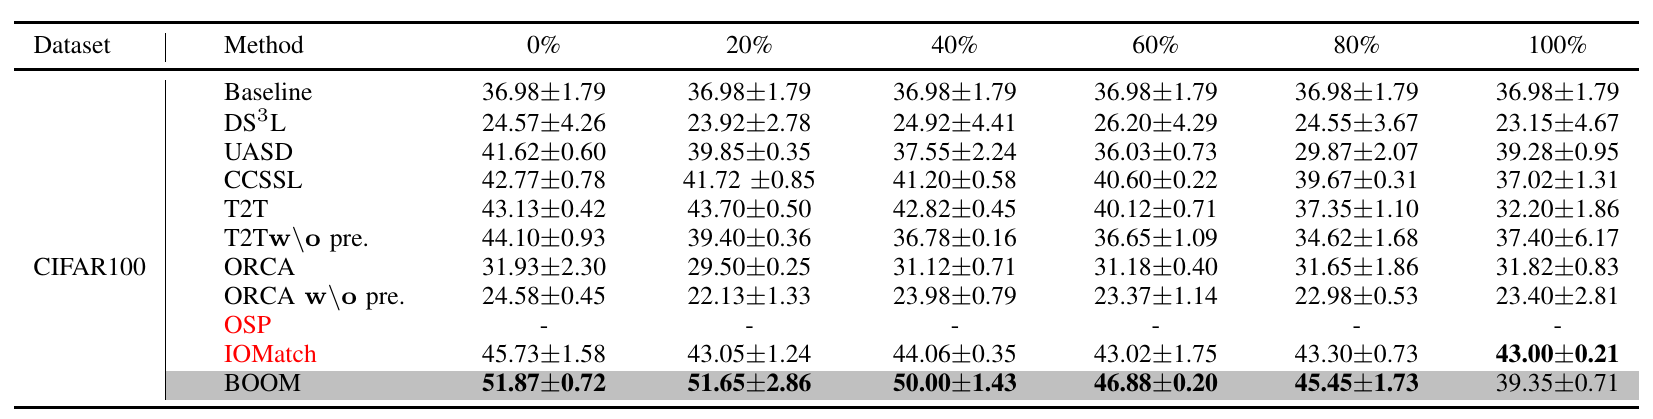
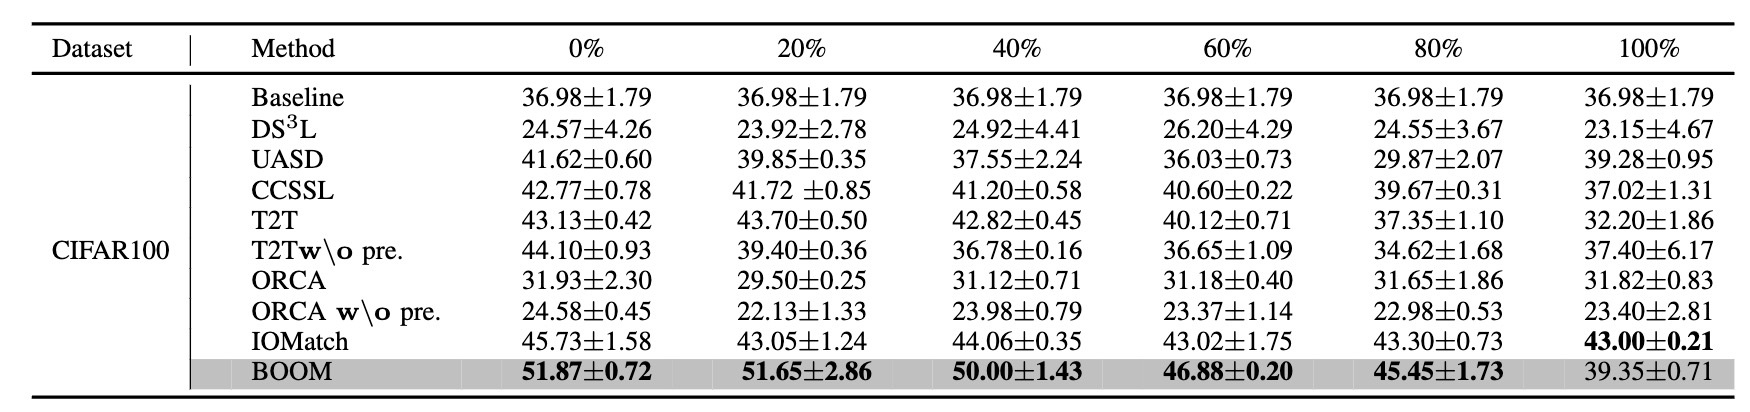
Add files via upload

Changed region(s): [[0.0, 0.0291, 1.0, 0.9903]]

diff --git a/index.html b/index.html
@@ -124,8 +124,10 @@
         <section id="abstract">
             <h2>1. Abstract</h2>
             <!-- <span style="color: red;">red</span>  -->
-            <p>Semi-supervised learning (SSL) confronts a formidable challenge under class distribution mismatch, wherein unlabeled data contain numerous categories absent in the labeled dataset. Traditional SSL methods undergo performance deterioration in such mismatch scenarios due to the invasion of those instances from unknown categories. Despite some technical efforts to enhance SSL by mitigating the invasion, the profound theoretical analysis of SSL under class distribution mismatch is still under study. Accordingly, in this work,  we propose <strong>B</strong>i-<strong>O</strong>bjective <strong>O</strong>ptimization <strong>M</strong>echanism(BOOM) to theoretically analyze the excess risk between the empirical optimal solution and the population-level optimal solution. Specifically, BOOM reveals that the SSL error is the essential contributor behind excess risk, resulting from both the pseudo-labeling error and invasion error. Meanwhile, BOOM unveils that the optimization objectives of SSL under mismatch are binary: high-quality pseudo-labels and adaptive weights on the unlabeled instances, which contribute to alleviating the pseudo-labeling error and the invasion error, respectively. Moreover, BOOM explicitly identifies the fundamental factors crucial for optimizing the bi-objectives, guided by which an approach is then proposed as a strong baseline for SSL under mismatch.  
-            Extensive experiments on benchmark and real datasets confirm the effectiveness of our proposed algorithm.</p>
+            <p> Semi-supervised learning (SSL) confronts a formidable challenge under class distribution mismatch, wherein unlabeled data contain numerous categories absent in the labeled dataset. Traditional SSL methods undergo performance deterioration in such mismatch scenarios due to the invasion of those instances from unknown categories. Despite some technical efforts to enhance SSL by mitigating the invasion, the profound theoretical analysis of SSL under class distribution mismatch is still under study. Accordingly, in this work,  we propose <strong>B</strong>i-<strong>O</strong>bjective <strong>O</strong>ptimization <strong>M</strong>echanism(BOOM) to theoretically analyze the excess risk between the empirical optimal solution and the population-level optimal solution. Specifically, BOOM reveals that the SSL error is the essential contributor behind excess risk, resulting from both the pseudo-labeling error and invasion error.  Meanwhile, BOOM unveils that the optimization objectives of SSL under mismatch are binary: high-quality pseudo-labels and adaptive weights on the unlabeled instances, which contribute to alleviating the pseudo-labeling error and the invasion error, respectively. Moreover, BOOM explicitly discovers the fundamental factors crucial for optimizing the bi-objectives, guided by which an approach is then proposed as a strong baseline for SSL under mismatch.  Extensive experiments on benchmark and real datasets confirm the effectiveness of our proposed algorithm.
+                </p>
+            <!-- <p>Semi-supervised learning (SSL) confronts a formidable challenge under class distribution mismatch, wherein unlabeled data contain numerous categories absent in the labeled dataset. Traditional SSL methods undergo performance deterioration in such mismatch scenarios due to the invasion of those instances from unknown categories. Despite some technical efforts to enhance SSL by mitigating the invasion, the profound theoretical analysis of SSL under class distribution mismatch is still under study. Accordingly, in this work,  we propose <strong>B</strong>i-<strong>O</strong>bjective <strong>O</strong>ptimization <strong>M</strong>echanism(BOOM) to theoretically analyze the excess risk between the empirical optimal solution and the population-level optimal solution. Specifically, BOOM reveals that the SSL error is the essential contributor behind excess risk, resulting from both the pseudo-labeling error and invasion error. Meanwhile, BOOM unveils that the optimization objectives of SSL under mismatch are binary: high-quality pseudo-labels and adaptive weights on the unlabeled instances, which contribute to alleviating the pseudo-labeling error and the invasion error, respectively. Moreover, BOOM explicitly identifies the fundamental factors crucial for optimizing the bi-objectives, guided by which an approach is then proposed as a strong baseline for SSL under mismatch.  
+            Extensive experiments on benchmark and real datasets confirm the effectiveness of our proposed algorithm.</p> -->
         </section>
 
         <section id="problem">
@@ -245,8 +247,8 @@
                 </li>
                 <li>
                     <span style="color: green;"><u>(<span class="roman-numeral">Subsection V-B </span>)</u></span> <span style="color: red;"> <strong>Partial Experimental Results.</strong></span> 
-                    <img class="img_responsive" src="./tiny.png" alt="cifar100" style="margin:auto;max-width:100%">
-                        <figcaption>Table 3: Experimental results on Tiny-ImageNet under different mismatch proportions. </figcaption>
+                    <img class="img_responsive" src="./cifar100.png" alt="cifar100" style="margin:auto;max-width:100%">
+                        <figcaption>Table 3: Experimental results on CIFAR100 under different mismatch proportions. </figcaption>
                 </li>
                 <li>
                     <span style="color: green;"><u>(<span class="roman-numeral">Subsection V-C</span>)</u></span> <span style="color: red;"> <strong>Ablation Studies.</strong></span> 
@@ -267,7 +269,7 @@
             <h2>5. Contribution</h2>
             <ul>
                 <li>
-                    We systematically construct a theoretical framework, named BOOM, which provides guidance on addressing class mismatch problems in SSL. To our knowledge, this is the first comprehensive theoretical study tailored for SSL under class distribution mismatch.
+                    We systematically construct a theoretical framework, named BOOM, which reveals the rationale of SLL under mismatch and provides guidance on addressing this problem in SSL. To our knowledge, this is the first comprehensive theoretical study tailored for SSL under class distribution mismatch.
                 </li>
                 
                 <li>
